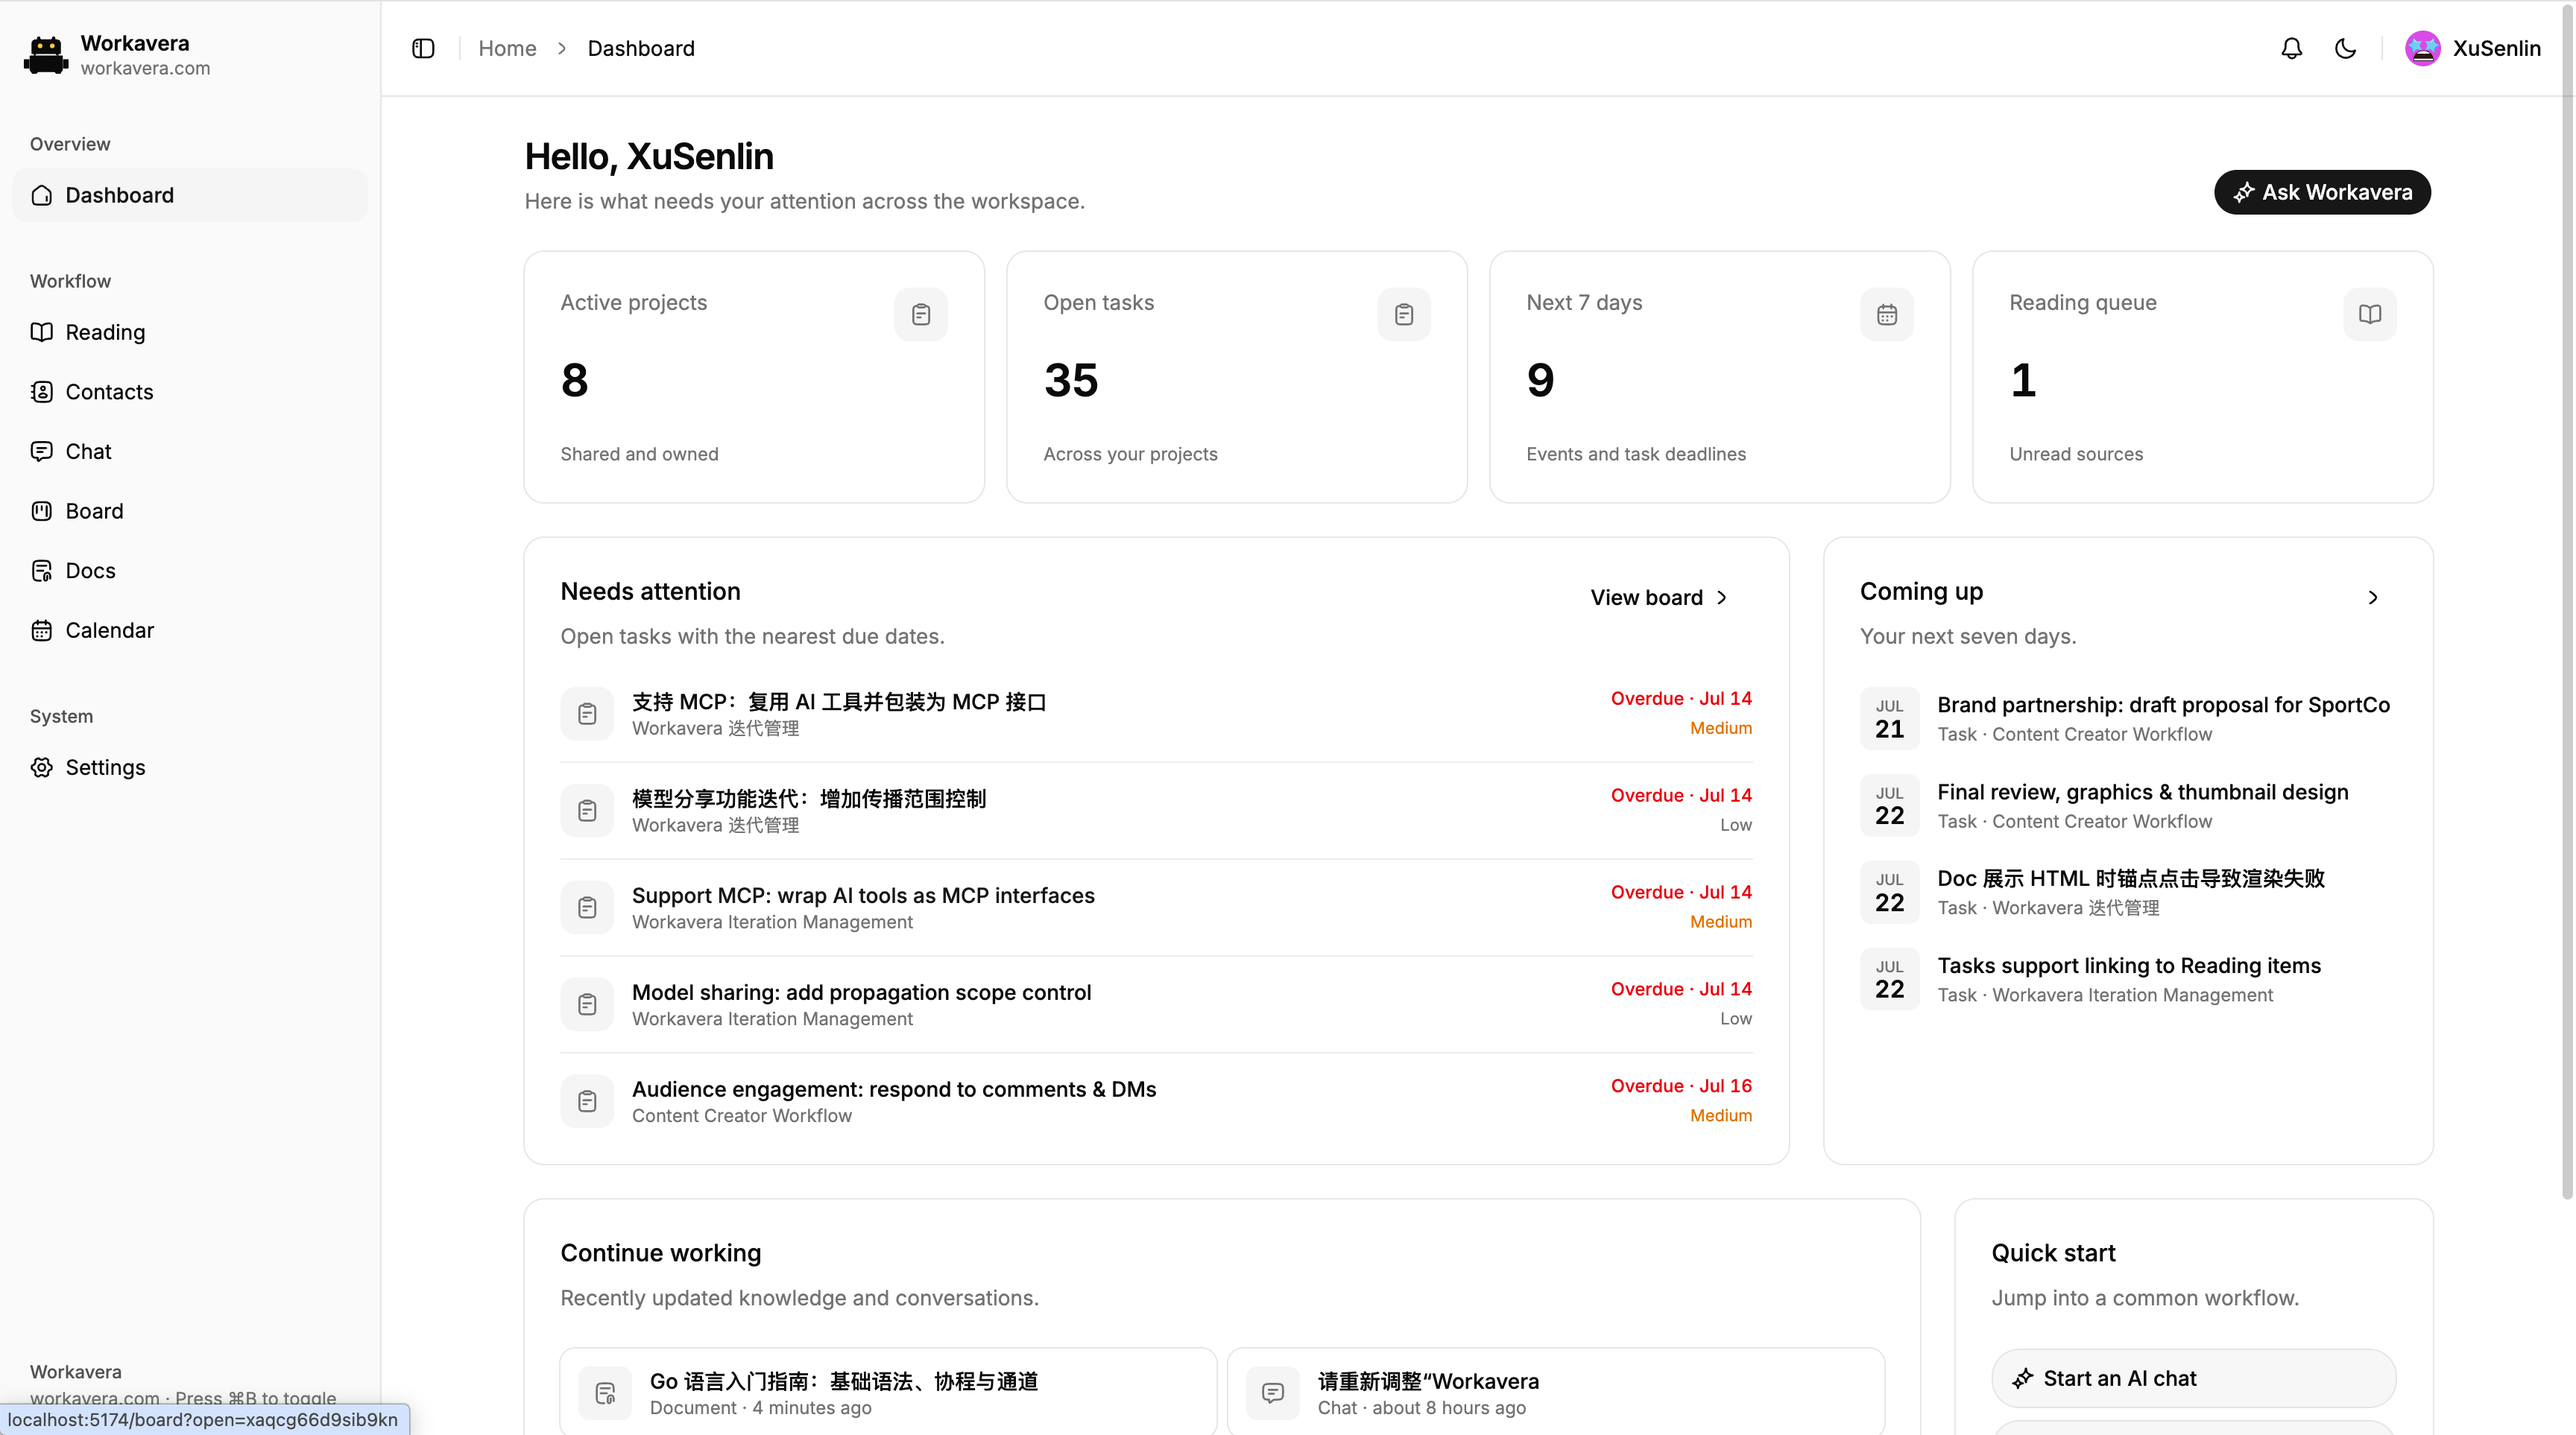
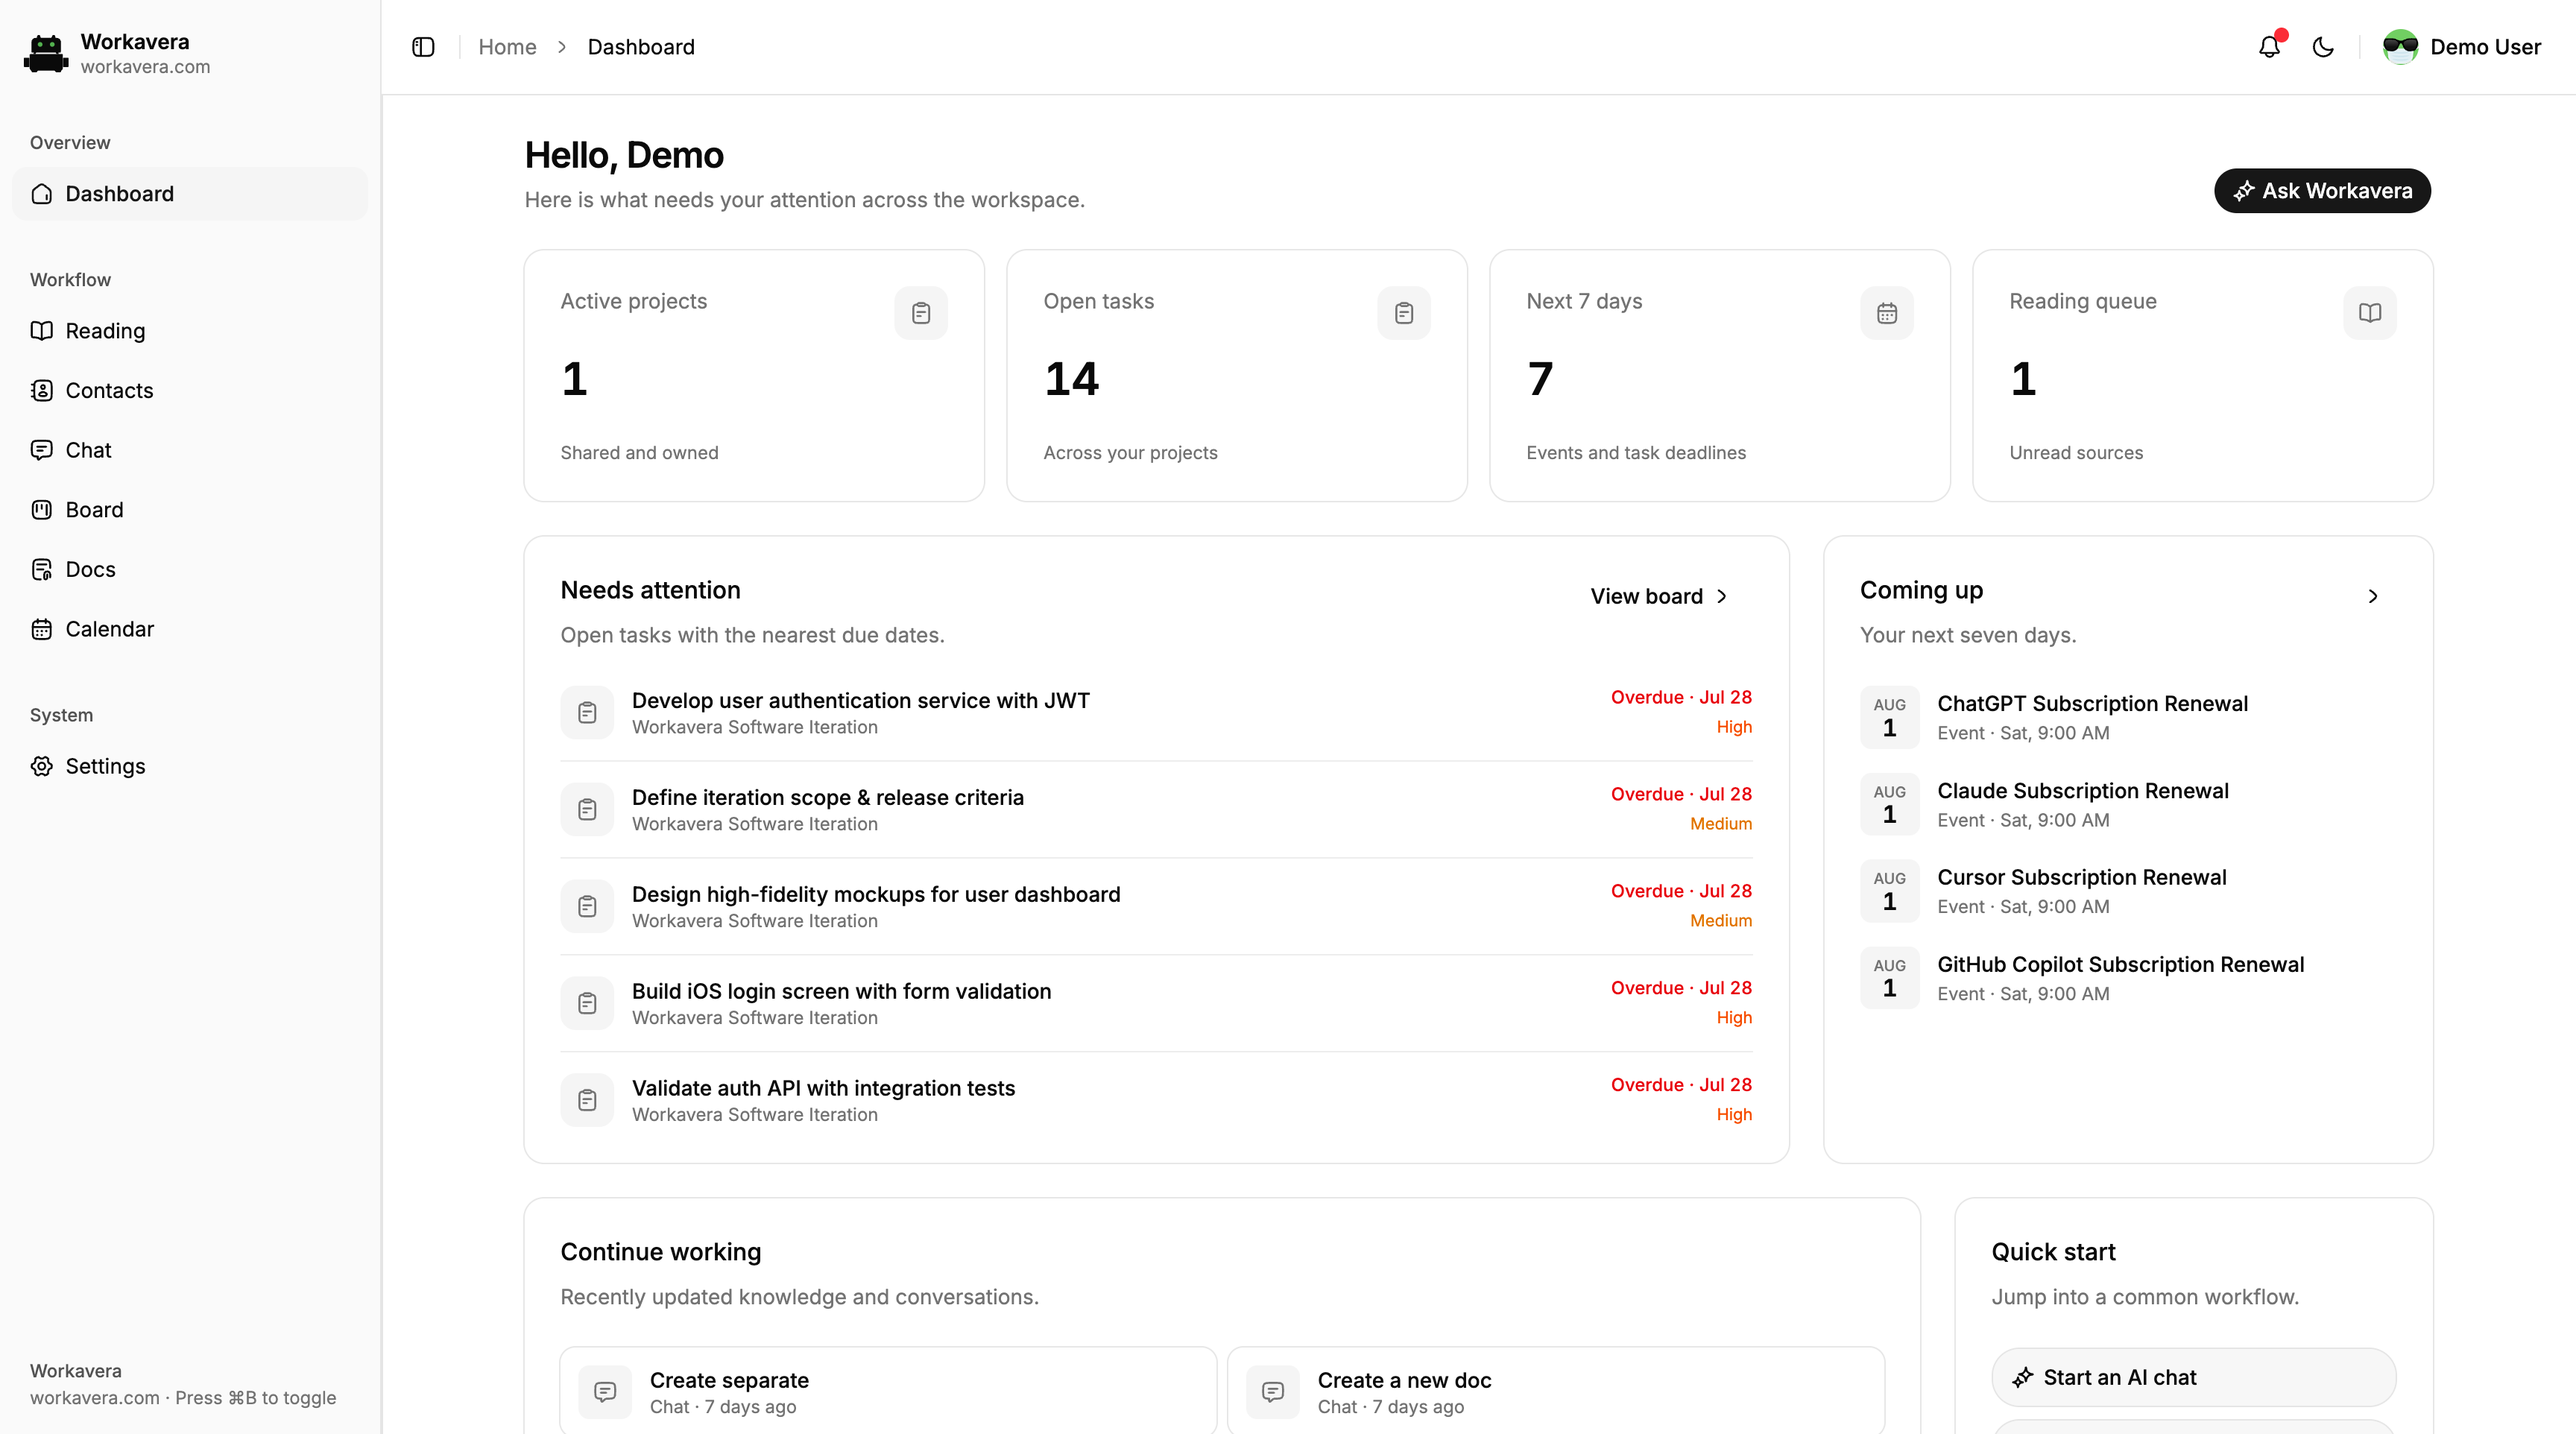
chore(deps): upgrade PocketBase to v0.39.10
Two upstream fixes matter to an embedded deployment: internal worker
goroutines now recover from panics instead of ending the whole workspace
process, and ozzo-validation moves to the PocketBase fork after the
original module changed owners upstream. No Workavera code imports
ozzo-validation, so `go mod tidy` dropped the original from go.mod and
go.sum on its own, with no source change.

Also carries SQLite 3.53.3, fexpr 0.6.0, and the 0.39.10 revert that
restores a non-zero exit code when a command panics.

Refreshes the dashboard screenshots that were already pending.

diff --git a/CHANGELOG.md b/CHANGELOG.md
@@ -7,6 +7,16 @@ and versions follow [Semantic Versioning](https://semver.org/).
 
 ## [Unreleased]
 
+### Changed
+
+- PocketBase is updated from 0.39.4 to 0.39.10, which also brings SQLite 3.53.3
+  (`modernc.org/sqlite` 1.55.0) and the `fexpr` 0.6.0 filter parser. A panic in
+  a Workavera command exits with a non-zero status again: PocketBase 0.39.7 had
+  turned CLI panics into a successful exit as a side effect of its worker fix,
+  which hid failures from process supervisors, container restart policies, and
+  CI. 0.39.10 restores the old behavior for the command path while keeping the
+  worker recovery.
+
 ### Fixed
 
 - Chat can list every personal custom Calendar event through
@@ -17,6 +27,19 @@ and versions follow [Semantic Versioning](https://semver.org/).
   user again, whether they own or participate in the project. The personal
   filter now matches assignee relation IDs and excludes completed states;
   comparing the multi-select relation itself silently returned no tasks.
+
+### Security
+
+- An unhandled panic in an internal PocketBase worker goroutine no longer takes
+  down the server. Workavera embeds PocketBase rather than running it as a
+  separate binary, so such a panic ended the whole workspace process instead of
+  failing one request; those workers now recover and return an error
+  (PocketBase 0.39.7).
+- `ozzo-validation` is replaced by the `github.com/pocketbase/ozzo-validation`
+  fork, after the original module changed owners upstream and PocketBase judged
+  the new maintainer untrusted. Workavera reaches the library only through
+  PocketBase and imports it nowhere, so the original module is gone from
+  `go.mod` and `go.sum` with no source change.
 
 ## [0.0.10] - 2026-07-30
 
